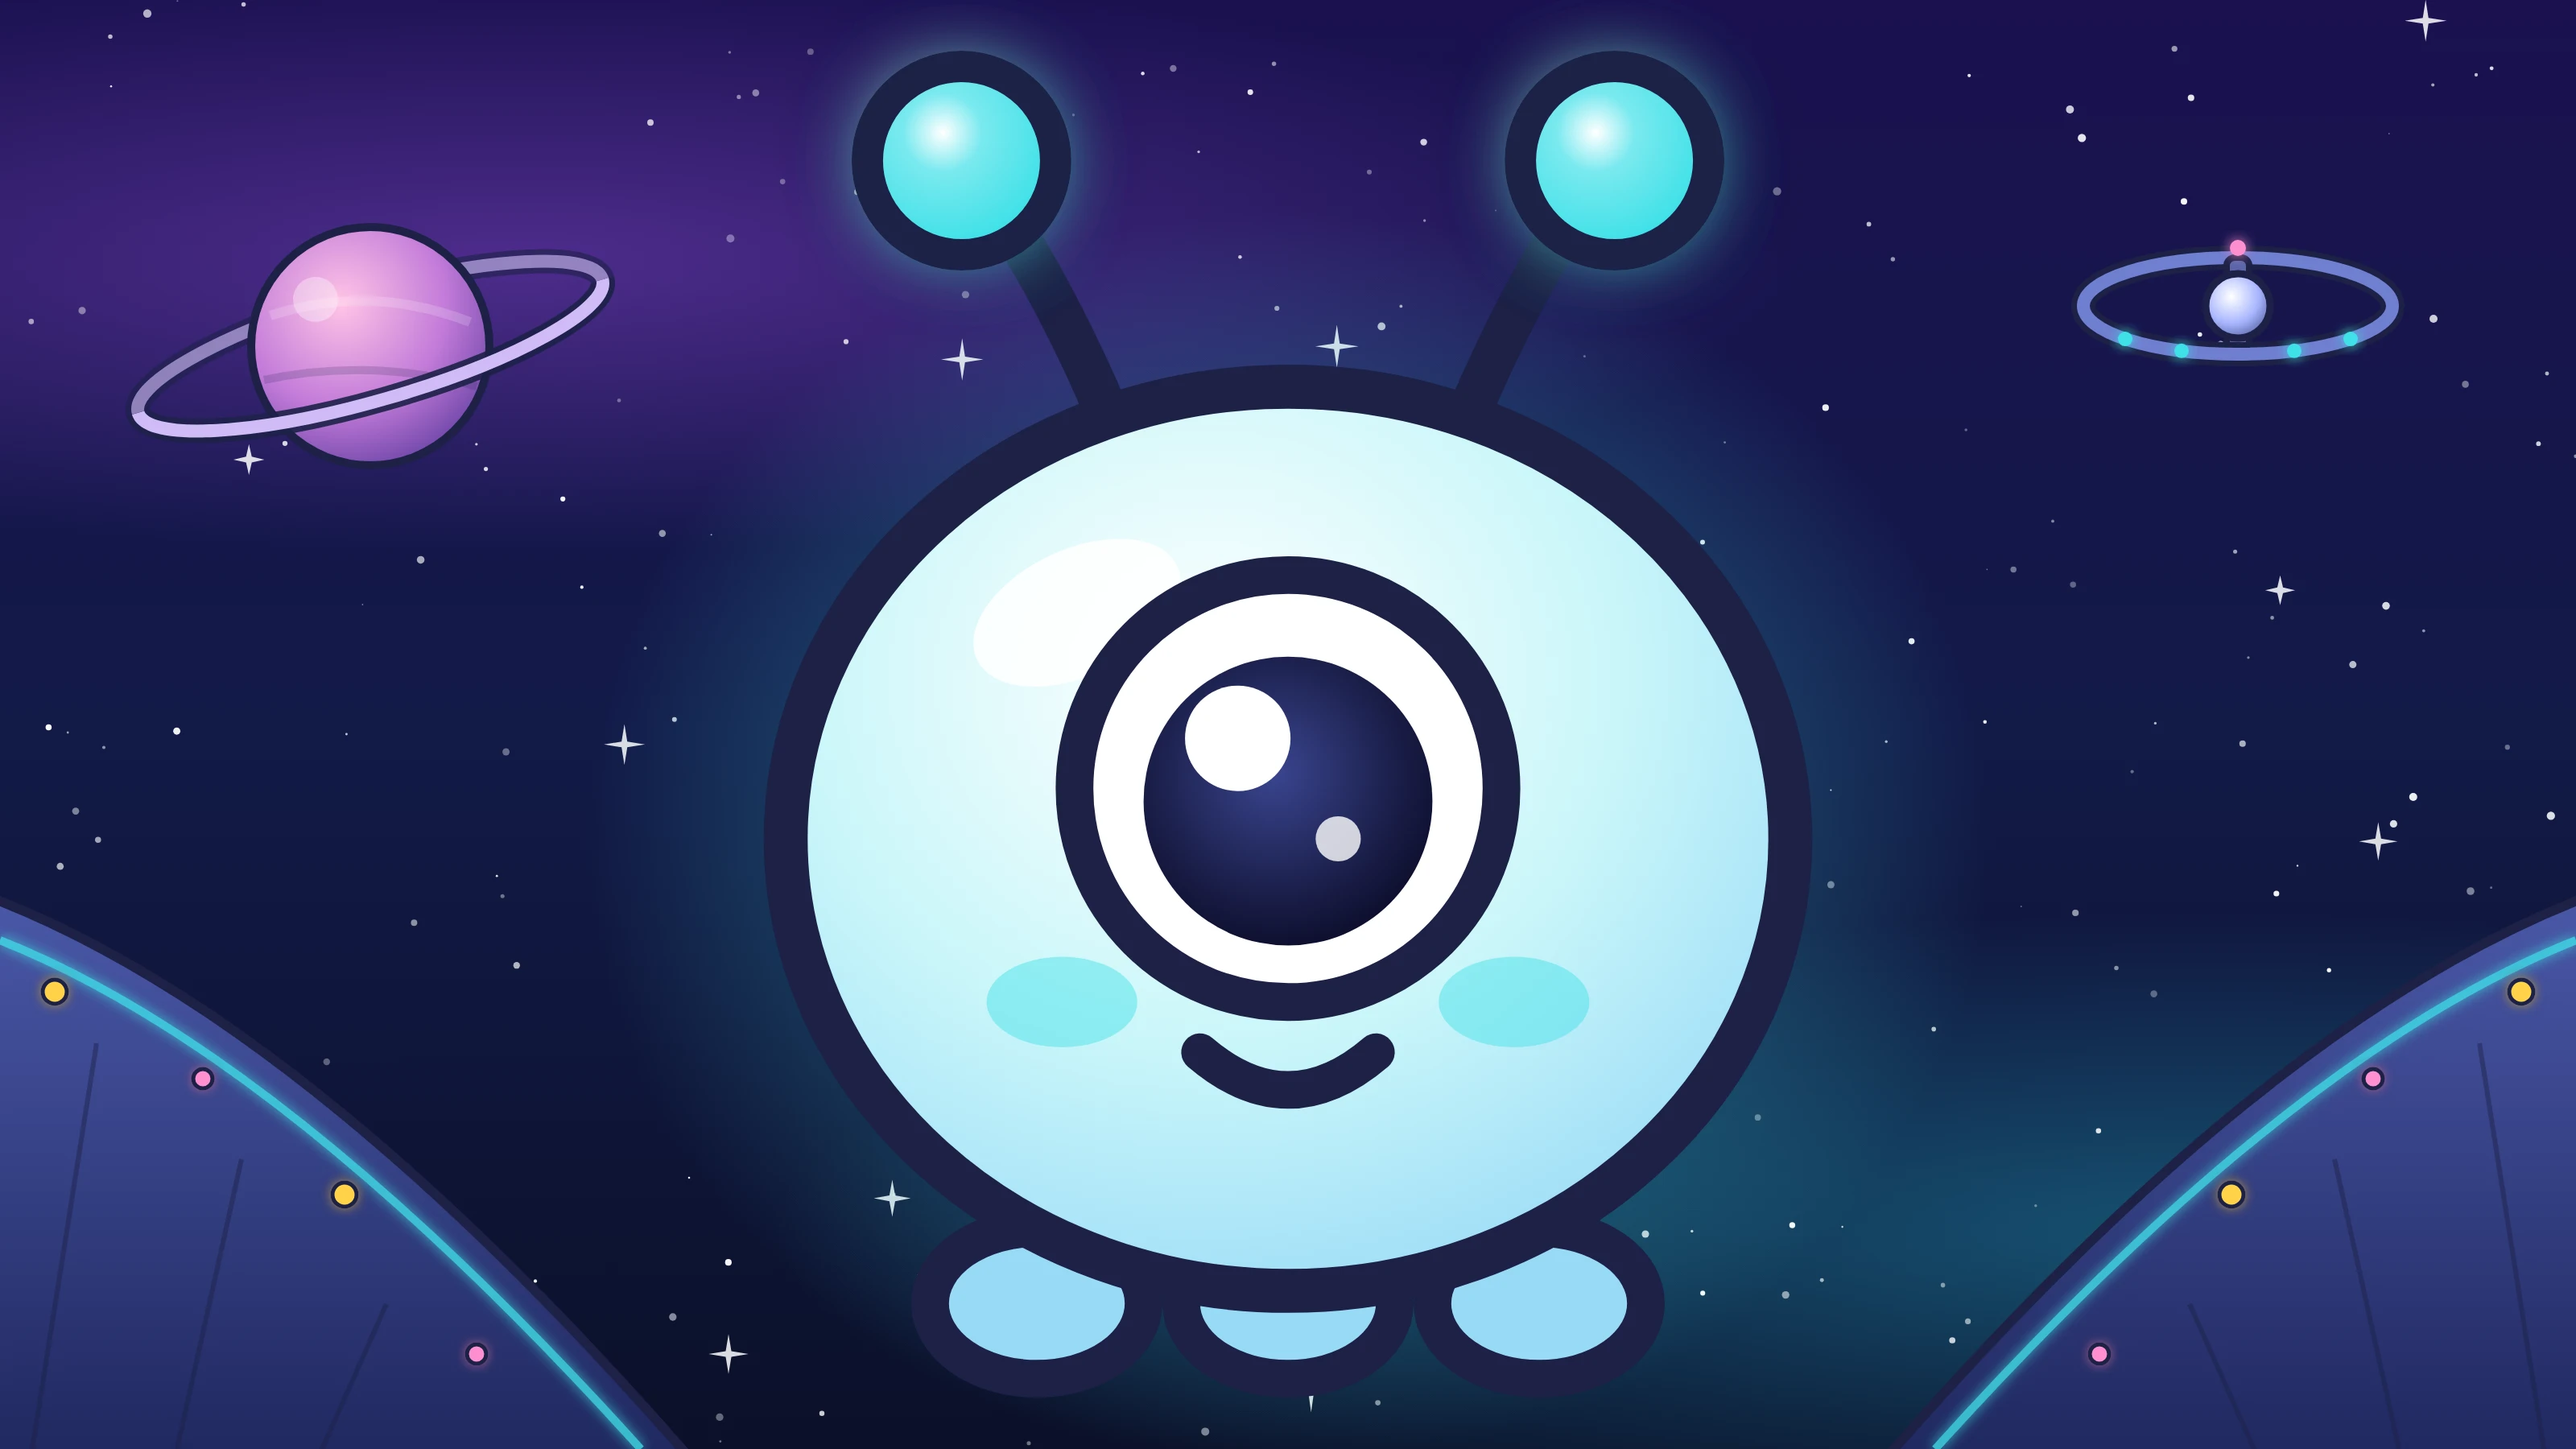
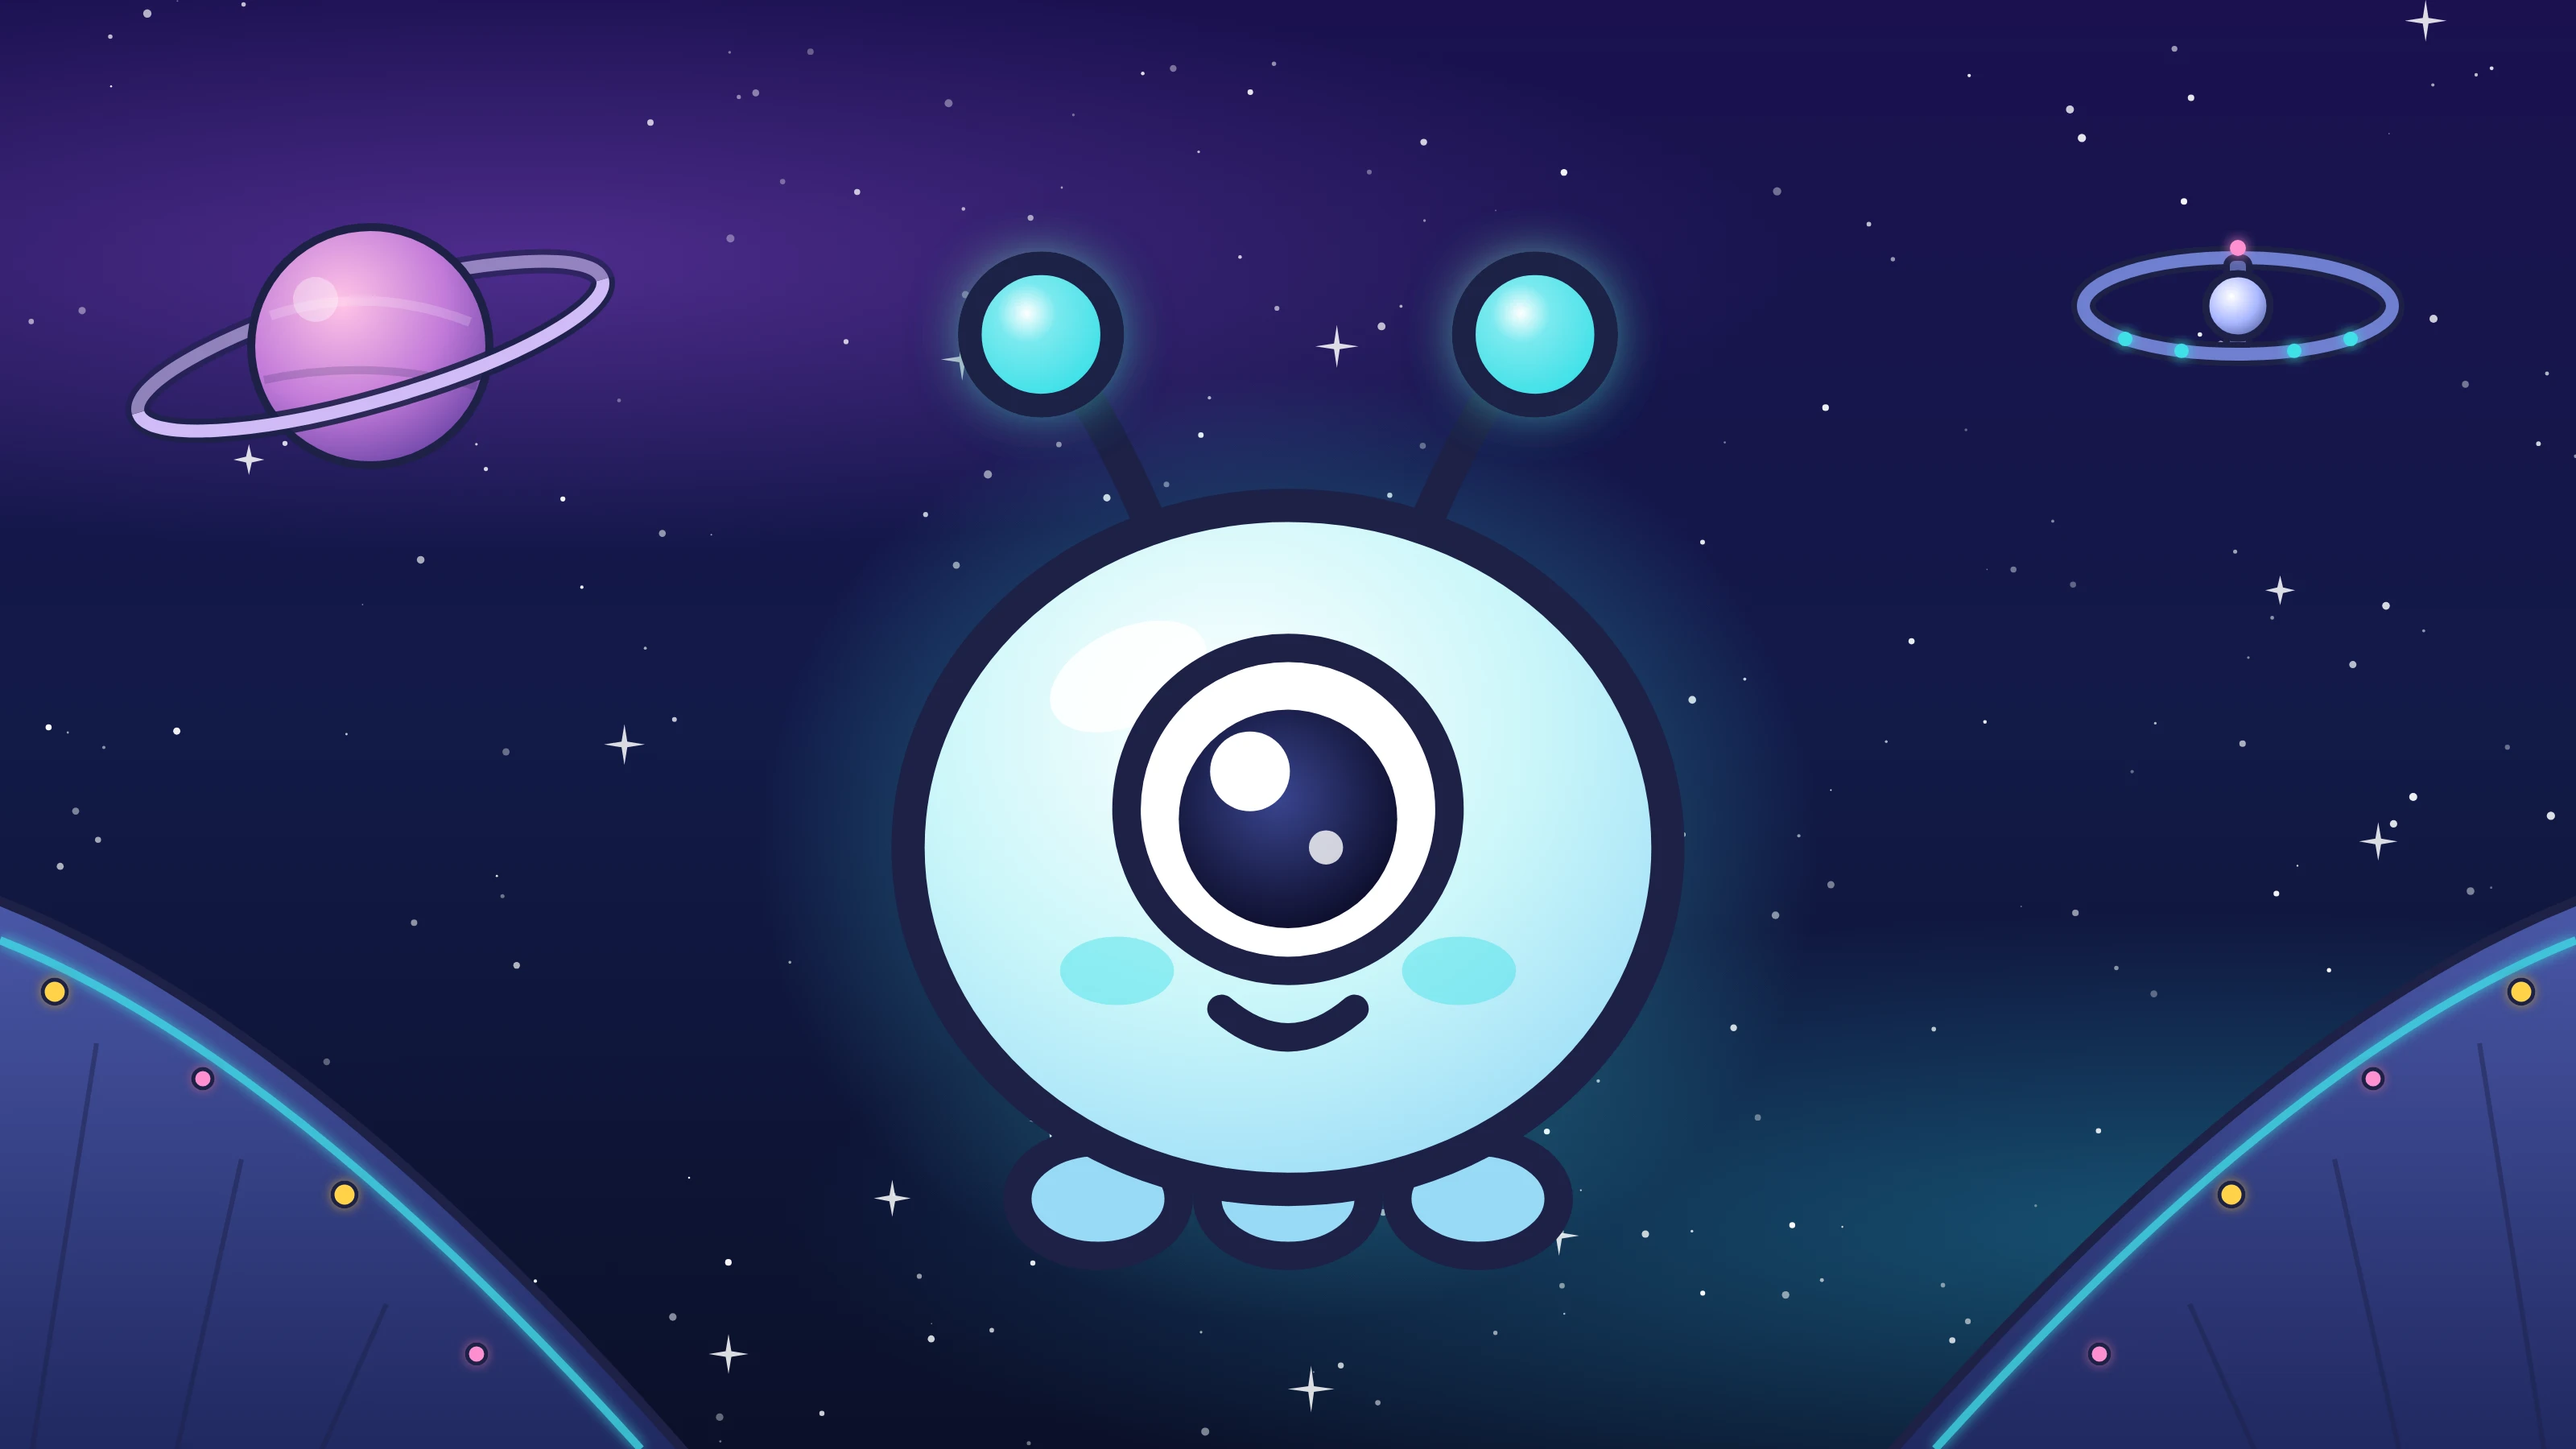
WIP: Nebula wide close-up fits a 2.16 landscape phone
Claude-Session: https://claude.ai/code/session_011bftBeXudnSzAMBxDFXhpR

Changed region(s): [[0.2812, 0.0, 0.7188, 0.9644]]

diff --git a/game.config.js b/game.config.js
@@ -264,8 +264,8 @@ window.GAME = {
                           { x: 0.40, y: 0.385, w: 0.2, h: 0.02 }, { x: 0.40, y: 0.70, w: 0.2, h: 0.03 }] },
           // phone held sideways: a landscape backdrop (same 4 areas, same order — wideAreas() in nebula.cjs)
           wide: { bg: "critter_closeup_rose_wide", bgDone: "critter_closeup_rose_wide_done",
-                  area: [{ x: 0.3477, y: 0.4067, w: 0.0609, h: 0.313 }, { x: 0.5914, y: 0.4067, w: 0.0609, h: 0.313 },
-                         { x: 0.4391, y: 0.305, w: 0.1219, h: 0.0313 }, { x: 0.4391, y: 0.7979, w: 0.1219, h: 0.0469 }] },
+                  size: 98, area: [{ x: 0.3848, y: 0.4546, w: 0.0461, h: 0.2367 }, { x: 0.5691, y: 0.4546, w: 0.0461, h: 0.2367 },
+                         { x: 0.4539, y: 0.3777, w: 0.0922, h: 0.0237 }, { x: 0.4539, y: 0.7505, w: 0.0922, h: 0.0355 }] },
           finishParticles: ["star", "sparkle", "heart"],
           foam: { colors: ["#ffffff", "#e3f9ff", "#ffe3f4"] },
         },
